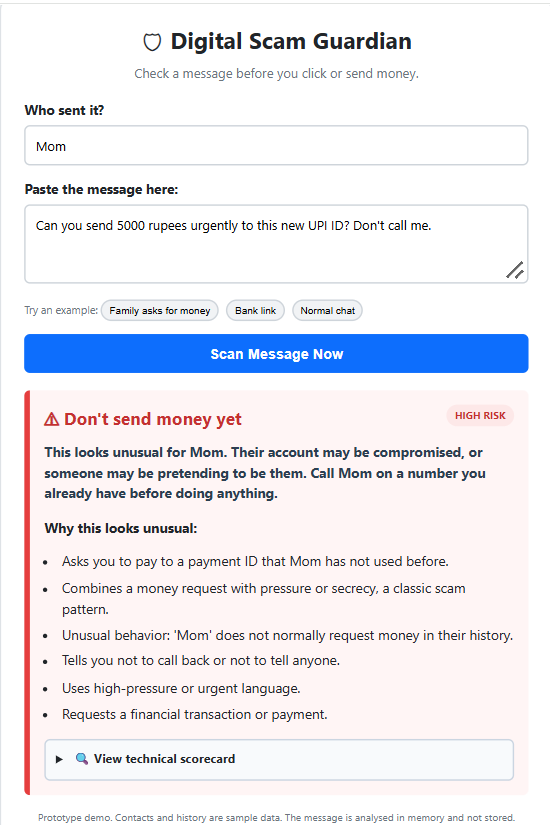
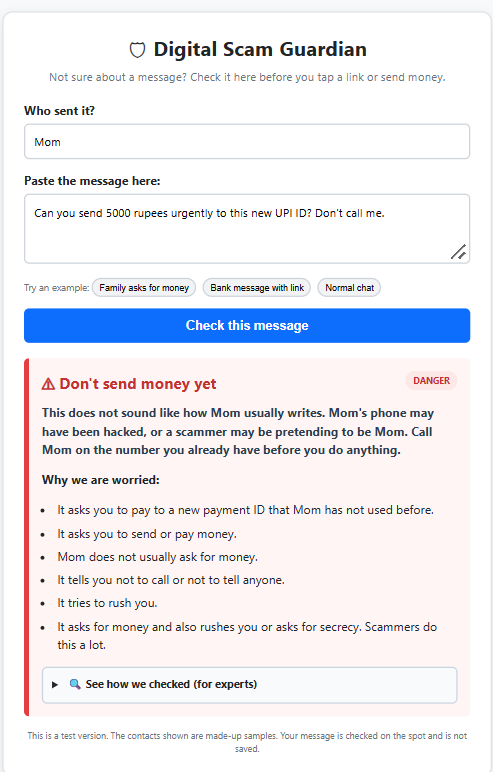
Update some files

Changed region(s): [[0.0304, 0.342, 0.9736, 1.0], [0.0304, 0.0311, 0.9736, 0.342], [0.9128, 0.2487, 0.9736, 0.342]]

diff --git a/frontend/index.html b/frontend/index.html
@@ -35,7 +35,7 @@
 <body>
 <div class="container">
   <h1>🛡 Digital Scam Guardian</h1>
-  <div class="subtitle">Check a message before you click or send money.</div>
+  <div class="subtitle">Not sure about a message? Check it here before you tap a link or send money.</div>
 
   <label for="senderInput">Who sent it?</label>
   <input type="text" id="senderInput" value="Mom" maxlength="100">
@@ -45,13 +45,13 @@
 
   <div class="examples">Try an example:
     <button type="button" data-s="Mom" data-m="Can you send 5000 rupees urgently to this new UPI ID? Don't call me.">Family asks for money</button>
-    <button type="button" data-s="Unknown Support" data-m="Dear customer, your SBI account will be blocked today. Update KYC at http://sbi-update-kyc.com immediately.">Bank link</button>
+    <button type="button" data-s="Unknown Support" data-m="Dear customer, your SBI account will be blocked today. Update KYC at http://sbi-update-kyc.com immediately.">Bank message with link</button>
     <button type="button" data-s="Mom" data-m="Hi beta, are you coming home for dinner tonight?">Normal chat</button>
   </div>
 
-  <button class="main" id="scanBtn">Scan Message Now</button>
+  <button class="main" id="scanBtn">Check this message</button>
   <div id="resultArea" aria-live="polite"></div>
-  <div class="note">Prototype demo. Contacts and history are sample data. The message is analysed in memory and not stored.</div>
+  <div class="note">This is a test version. The contacts shown are made-up samples. Your message is checked on the spot and is not saved.</div>
 </div>
 
 <script>
@@ -93,27 +93,27 @@
       const cls = d.score_color === "red" ? "high" : d.score_color === "orange" ? "mid" : "low";
       const titleColor = cls === "high" ? "#c53030" : cls === "mid" ? "#d35400" : "#27ae60";
       const icon = cls === "low" ? "✅" : "⚠";
-      const reasons = d.reasons.length ? d.reasons.map(r => `<li>${esc(r)}</li>`).join("") : "<li>No specific warning signs found.</li>";
+      const reasons = d.reasons.length ? d.reasons.map(r => `<li>${esc(r)}</li>`).join("") : "<li>We did not find anything worrying.</li>";
       const t = d.technical_breakdown;
 
       out.innerHTML = `
         <div class="result ${cls}">
           <div class="head"><h2 style="color:${titleColor}">${icon} ${esc(d.headline)}</h2>
-            <span class="badge ${esc(d.badge_class)}">${esc(d.risk_level)}</span></div>
+            <span class="badge ${esc(d.badge_class)}">${esc(d.level_label || d.risk_level)}</span></div>
           <p class="action">${esc(d.recommended_action)}</p>
-          <p><strong>${cls === "low" ? "What we checked:" : "Why this looks unusual:"}</strong></p>
+          <p><strong>${cls === "low" ? "What we looked at:" : "Why we are worried:"}</strong></p>
           <ul>${reasons}</ul>
-          <details><summary>🔍 View technical scorecard</summary>
+          <details><summary>🔍 See how we checked (for experts)</summary>
             <div class="tech"><div class="row"><span>Safety score (higher is safer)</span>
               <span style="color:${valueColor(d.reputation_score + ' / 100')}">${esc(d.reputation_score)} / 100</span></div></div>
-            ${techRow("Rule engine", t.rule_score)}
-            ${techRow("Sender history", t.sender_score)}
-            ${techRow("Link check", t.link_score)}
-            ${techRow("Machine learning", t.ml_score)}
+            ${techRow("Words used", t.rule_score)}
+            ${techRow("Is it normal for this person?", t.sender_score)}
+            ${techRow("Links", t.link_score)}
+            ${techRow("Computer helper (weak hint)", t.ml_score)}
           </details>
         </div>`;
     } catch (err) {
-      out.innerHTML = "<p style='color:#c0392b;text-align:center'>Could not reach the checking engine. Is the server running?</p>";
+      out.innerHTML = "<p style='color:#c0392b;text-align:center'>Sorry, we could not check this message. Please try again.</p>";
     } finally {
       btn.disabled = false;
     }

diff --git a/detector/risk_engine.py b/detector/risk_engine.py
@@ -14,7 +14,7 @@ from detector.train_model import get_model
 TRUST = {"rules": 0.9, "sender": 0.9, "link": 0.9}   # ML trust is set from how much data it saw
 HIGH_AT, SUSPICIOUS_AT = 60, 31                      # risk thresholds, matching the 0-39 / 40-69 / 70-100 scale in the UI
 OTP_NOTICE = re.compile(r"\botp\b.{0,80}\bdo(?:n[’']?t| not) share\b|\bdo(?:n[’']?t| not) share\b.{0,40}\botp\b", re.I | re.S)
-PRIORITY = ["payment id", "money", "call", "urgent", "behavior", "password", "arrest", "link", "kyc"]
+PRIORITY = ["fake copy", "new payment id", "send or pay money", "does not usually", "not to call", "rush", "pin, password", "arrest", "link", "kyc"]
 
 
 def _combine(pairs):
@@ -26,23 +26,24 @@ def _combine(pairs):
 
 def _advice(level, sender, known, signals, has_links):
     if level == "LOW":
-        return "No major warning signs found. Stay careful with links and with any request for money."
+        return "We did not find anything worrying. Still, be careful with links and with anyone who asks for money."
     if level == "HIGH" and known:
-        return (f"This looks unusual for {sender}. Their account may be compromised, or someone may be pretending "
-                f"to be them. Call {sender} on a number you already have before doing anything.")
+        return (f"This does not sound like how {sender} usually writes. {sender}'s phone may have been hacked, "
+                f"or a scammer may be pretending to be {sender}. Call {sender} on the number you already have "
+                f"before you do anything.")
     if level == "HIGH" and "financial" in signals and not has_links:
-        return ("Do not send money. Call this person on a number you already know, "
-                "or ask a family member, before doing anything.")
+        return ("Do not send any money. Call this person on a number you already know, "
+                "or ask someone in your family, before you do anything.")
     if level == "HIGH":
-        return ("Do not reply, click links or send money. If it claims to be your bank or the police, "
-                "contact them using the number on your card or their official website.")
+        return ("Do not reply, do not tap any link and do not send money. If it says it is from your bank "
+                "or the police, call them on the number printed on your bank card.")
     who = sender if known else "the sender"
-    return f"Pause before acting. Check with {who} using a number or channel you already trust."
+    return f"Wait before you do anything. Check with {who} by calling a number you already know."
 
 
 def _headline(level, signals, has_links):
     if level == "LOW":
-        return "Message looks safe"
+        return "This message looks safe"
     if "financial" in signals:
         return "Don't send money yet"
     if "credential_request" in signals:
@@ -73,11 +74,11 @@ def evaluate_message_risk(sender, message_text, upi_mentioned=None):
         ml_trust = 0.5 if ml_info["n_total"] >= 500 else 0.2
         ml_safety = round((1 - p) * 100)
         if ml_info["holdout"]:
-            ml_note = f"Supporting signal from a model trained on {ml_info['n_total']} messages ({'; '.join(ml_info['sources'])})."
+            ml_note = f"A small computer helper trained on {ml_info['n_total']} sample messages. It is only a hint."
         else:
-            ml_note = f"Experimental: trained on only {ml_info['n_total']} messages, so treated as a weak signal."
+            ml_note = f"A small computer helper trained on only {ml_info['n_total']} sample messages. We treat it as a weak hint."
     except Exception:
-        ml_risk, ml_trust, ml_safety, ml_note = 0.0, 0.0, None, "Model unavailable."
+        ml_risk, ml_trust, ml_safety, ml_note = 0.0, 0.0, None, "The computer helper is not available."
 
     risk = _combine([(rules["score"], TRUST["rules"]), (who["sender_score"], TRUST["sender"]),
                      (link_risk, TRUST["link"]), (ml_risk, ml_trust)])
@@ -88,7 +89,7 @@ def evaluate_message_risk(sender, message_text, upi_mentioned=None):
     # A genuine OTP notice warns "do not share"; do not treat it as a scam
     if OTP_NOTICE.search(message_text) and "credential_request" not in rules["signals"] and not urls:
         risk = min(risk, 20)
-        reasons = ["This looks like a genuine one-time-password notice. Never share the code with anyone."]
+        reasons = ["This looks like a normal secret-code message from a bank or shop. Never tell this code to anyone."]
 
     if risk >= HIGH_AT:
         level, label, badge, color = "HIGH", "High Risk", "badge-high", "red"
@@ -100,21 +101,21 @@ def evaluate_message_risk(sender, message_text, upi_mentioned=None):
     return {
         "sender": sender, "message": message_text,
         "risk_level": {"HIGH": "HIGH RISK", "SUSPICIOUS": "SUSPICIOUS", "LOW": "LOW RISK"}[level],
-        "badge_class": badge, "score_color": color, "score_label": label,
+        "level_label": {"HIGH": "DANGER", "SUSPICIOUS": "BE CAREFUL", "LOW": "LOOKS SAFE"}[level], "badge_class": badge, "score_color": color, "score_label": label,
         "risk": risk, "reputation_score": 100 - risk,
         "headline": _headline(level, rules["signals"], bool(urls)),
         "recommended_action": _advice(level, sender, who["known_contact"], rules["signals"], bool(urls)),
         "reasons": reasons,
         "technical_breakdown": {
-            "rule_score": {"value": f"{100 - rules['score']} / 100 safety",
-                           "explanation": "Evaluated the text for pressure tactics, financial demands, and isolation cues."},
-            "sender_score": {"value": f"{100 - who['sender_score']} / 100 safety",
-                             "explanation": f"Compared the message with what is normal for {sender}."},
+            "rule_score": {"value": f"{100 - rules['score']} / 100 safe",
+                           "explanation": "Looked at the words for rushing, money requests and secrecy."},
+            "sender_score": {"value": f"{100 - who['sender_score']} / 100 safe",
+                             "explanation": f"Checked if this message is normal for {sender}."},
             "link_score": {
-                "value": f"{max(0, 100 - link_risk)} / 100 safety" if urls else "Not applicable (no link found)",
-                "explanation": "Checked links for look-alike domains, shorteners and odd endings." if urls else "No links in the message to check.",
+                "value": f"{max(0, 100 - link_risk)} / 100 safe" if urls else "No link in the message",
+                "explanation": "Checked the link for fake websites and short links." if urls else "There is no link to check.",
                 "color_style": ("#27ae60" if link_risk < 30 else "#c53030") if urls else "#94a3b8"},
-            "ml_score": {"value": f"{ml_safety} / 100 safety" if ml_safety is not None else "Unavailable",
+            "ml_score": {"value": f"{ml_safety} / 100 safe" if ml_safety is not None else "Not available",
                          "explanation": ml_note},
         },
     }

diff --git a/detector/detector.py b/detector/detector.py
@@ -16,25 +16,25 @@ _RULES = [
     ("urgency",
      r"\b(?:immediately|urgent(?:ly)?|right now|asap|hurry|emergency|last warning|jaldi|turant)\b"
      r"|within \d+ (?:minutes?|hours?)",
-     25, "Uses high-pressure or urgent language."),
+     25, "It tries to rush you."),
     ("threat",
      r"\baccount\b.{0,40}\b(?:blocked|suspended|closed|deactivated)\b"
      r"|\bwill be (?:blocked|closed|suspended)\b",
-     30, "Threatens account restriction or closure."),
-    ("financial", _MONEY_REQUEST, 30, "Requests a financial transaction or payment."),
+     30, "It says your bank account will be blocked or closed."),
+    ("financial", _MONEY_REQUEST, 30, "It asks you to send or pay money."),
     ("credential_request",
      r"\b(?:send|share|tell|give|provide|enter|reply with|forward)\b.{0,30}\b(?:otp|pin|password|cvv|(?:\d[- ]digit |verification |security |secret )code)\b",
-     40, "Asks you to share a password, PIN or OTP."),
-    ("kyc", r"\bkyc\b", 20, "Mentions a KYC update, a common scam pretext."),
+     40, "It asks for your PIN, password or secret code (OTP)."),
+    ("kyc", r"\bkyc\b", 20, "It talks about updating your bank details (KYC). Scammers use this a lot."),
     ("secrecy",
      r"\bdo(?:n[’']?t| not) (?:call|tell)\b|\bkeep (?:this )?(?:a )?secret\b|\bbaad mein call\b|\bmat batana\b",
-     25, "Tells you not to call back or not to tell anyone."),
+     25, "It tells you not to call or not to tell anyone."),
     ("authority",
      r"\b(?:police|cbi|trai|customs|arrest|warrant|money laundering|digital arrest)\b",
-     25, "Claims to be police or an official body, or threatens arrest."),
+     25, "It says it is from the police or the government, or talks about arrest."),
     ("prize",
      r"\byou have won\b|\bwinner\b|\blottery\b|\blucky draw\b|\bprize\b|\bcongratulations\b",
-     30, "Claims you have won a prize."),
+     30, "It says you have won a prize."),
 ]
 _COMPILED = [(n, re.compile(p, re.IGNORECASE), pts, why) for n, p, pts, why in _RULES]
 
@@ -59,7 +59,7 @@ def analyze_message(message_text, sender="Unknown"):
     # Signals are stronger together: money + pressure/secrecy is the classic scam shape.
     if "financial" in signals and {"urgency", "secrecy"} & set(signals):
         score += 15
-        reasons.append("Combines a money request with pressure or secrecy, a classic scam pattern.")
+        reasons.append("It asks for money and also rushes you or asks for secrecy. Scammers do this a lot.")
 
     score = min(score, 100)
     if score >= 60:

diff --git a/detector/link_analyzer.py b/detector/link_analyzer.py
@@ -38,17 +38,17 @@ def analyze_link(url):
     # 1. Shorteners: exact domain match (the old substring check flagged flipkart.com as "t.co")
     if any(_is_or_subdomain_of(domain, s) for s in SHORTENERS):
         score += 35
-        reasons.append(f"Uses a URL shortener ({domain}), which hides the true destination.")
+        reasons.append("This is a short link. It hides where it really goes.")
 
     # 2. Unusual endings
     if domain.endswith(SUSPICIOUS_TLDS):
         score += 30
-        reasons.append(f"Uses an unusual domain ending ({domain}) often seen in scams.")
+        reasons.append("The website name ends in an unusual way that scammers often use.")
 
     # 3. Raw IP address or many subdomains
     if re.fullmatch(r"\d{1,3}(?:\.\d{1,3}){3}", domain) or domain.count(".") > 3:
         score += 40
-        reasons.append("Uses a raw IP address or an unusually long chain of subdomains.")
+        reasons.append("The link looks strange. It is not a normal website name.")
 
     # 4. Look-alike brand domains (old endswith check let fake-sbi.com pass as "sbi.com")
     for brand, genuine in OFFICIAL.items():
@@ -56,13 +56,13 @@ def analyze_link(url):
         is_genuine = any(_is_or_subdomain_of(domain, g) for g in genuine)
         if mentions_brand and not is_genuine:
             score += 45
-            reasons.append(f"Looks like it imitates {brand.upper()} but is not its official website.")
+            reasons.append(f"The link looks like {brand.upper()}'s website, but it is a fake copy.")
             break
 
     # 5. Scam-style words inside the domain itself
     if SCAM_WORDS & set(tokens):
         score += 25
-        reasons.append("The web address contains words like 'verify', 'update' or 'KYC'.")
+        reasons.append("The link has words like 'verify' or 'update' that scammers like to use.")
 
     return {"url": url, "domain": domain, "link_score": score, "link_reasons": reasons}
 

diff --git a/detector/contact_analyzer.py b/detector/contact_analyzer.py
@@ -65,17 +65,17 @@ def analyze_sender_behavior(sender_name, message_text, upi_mentioned=None):
         normal_upi, asks_normally = row
         if asks_money and not asks_normally:
             score += 15 if usual else 40   # a money request using a "usual" ID is far less alarming
-            reasons.append(f"Unusual behavior: '{name}' does not normally request money in their history.")
+            reasons.append(f"{name} does not usually ask for money.")
         ids = _ids_in(message_text, upi_mentioned)
         new_id = bool(NEW_ID_RE.search(message_text)) or any(i != normal_upi.lower() for i in ids)
         if asks_money and new_id and not usual:
             score += 35
-            reasons.append(f"Asks you to pay to a payment ID that {name} has not used before.")
+            reasons.append(f"It asks you to pay to a new payment ID that {name} has not used before.")
     else:
         score += 15
-        reasons.append(f"Sender '{name}' is not in your saved contacts list.")
+        reasons.append(f"You do not have '{name}' saved as a contact.")
         if asks_money:
             score += 20
-            reasons.append("An unknown sender is asking for money.")
+            reasons.append("Someone you do not know is asking for money.")
 
     return {"sender": name, "sender_score": min(score, 100), "sender_reasons": reasons, "known_contact": bool(row)}

diff --git a/README.md b/README.md
@@ -3,13 +3,9 @@
 A scam-safety layer for messages, **designed first for elderly people and useful to anyone**.
 It checks a message on the user's own device, then explains in plain language why the message looks risky and what to do.
 
-> **Status: Prototype 1.** A working web demo of the detection approach. It does **not** read WhatsApp or SMS yet, and it does not handle phone calls.
+Built for the **Tata Young Social Innovator Challenge** (Technology for Social Good: *how can an elderly person tell whether a call, link or message is genuine or a scam?*).
 
-<!-- Add screenshots here once taken, for example:
-![Known contact asks for money](docs/screenshots/known-contact.png)
-![Fake KYC link](docs/screenshots/fake-link.png)
-![Normal message](docs/screenshots/normal.png)
--->
+> **Status: Prototype 1 (complete).** A working web demo of the detection engine. It does **not** read WhatsApp or SMS yet, and it does not handle phone calls. See [Architecture](#architecture) for how it is designed to fit existing messaging apps.
 
 ## The problem
 Scammers do not hack elderly people's phones; they persuade them, using urgency, fear, authority and trust.
@@ -26,8 +22,66 @@ Four layers each produce a risk, and a strong signal in any layer raises the fin
 | ML model | Small text classifier used as a supporting signal; counted only when more than 50% confident |
 
 - **Combination:** noisy-OR, `risk = 1 - product(1 - layer_risk x trust)`, not a plain average. A clearly fake link cannot be diluted away by clean-looking text.
-- **Levels:** LOW, SUSPICIOUS, HIGH, each with plain-language reasons and a recommended action.
-- **Wording:** results say "this looks unusual", never "this is a scam". A known contact does not automatically mean safe.
+- **Levels:** LOOKS SAFE, BE CAREFUL, DANGER (internally LOW, SUSPICIOUS, HIGH), each with short reasons and clear advice.
+- **Plain language:** short sentences and everyday words, written after feedback that a first version was too technical. Messages say things like "may have been hacked" or "a scammer may be pretending", never claim certainty, and a known contact is not automatically treated as safe.
+
+## Architecture
+
+![Digital Scam Guardian architecture](docs/architecture.png)
+
+*Solid = built in Prototype 1. Dashed = planned, design only. Vector version: [docs/architecture.svg](docs/architecture.svg).*
+
+| Component | Role | File |
+|---|---|---|
+| Web demo form | Prototype 1 entry point: sender + pasted message, plus example buttons | `frontend/index.html` |
+| Standard input / API | One input format for any source (`POST /api/analyze`) | `backend/main.py` |
+| Rules | Wording signals: urgency, money requests, secrecy, OTP/PIN, threats, authority, prizes | `detector/detector.py` |
+| Sender check | Compares the message with the contact's baseline (sample data) | `detector/contact_analyzer.py` |
+| Link check | Local heuristics on links, no network calls | `detector/link_analyzer.py` |
+| ML model | Small supporting text classifier, trained once per run | `detector/train_model.py` |
+| Risk engine | Combines the layers (noisy-OR), writes reasons and advice | `detector/risk_engine.py` |
+
+**How a message flows:** it enters as `sender + text`, the four layers each return a risk and plain-language reasons, the risk engine combines them into LOW, SUSPICIOUS or HIGH, and the page shows a headline, advice and reasons. Nothing is blocked automatically, and the text is not stored.
+
+**Design choices:**
+- *Platform-independent core:* the engine only sees `sender + text`, so it does not depend on any one messaging app.
+- *Local analysis:* the engine needs no external service, so message text stays inside the app.
+- *Signals combined, not averaged:* a clearly fake link or an unusual money request cannot be diluted by clean-looking wording.
+- *Explain, don't just score:* every result lists its reasons; wording is "this looks unusual", never "this is a scam".
+
+### How it is designed to fit existing messaging apps (design only, not built)
+Encrypted apps such as WhatsApp cannot be read by a server, so a real layer must work **on the user's own device after a message is delivered**. Three routes are planned, each subject to platform permissions and policies (iOS is more restrictive than Android):
+
+| Route | Idea | Notes |
+|---|---|---|
+| Share to Guardian | The user shares a suspicious message from any app into Guardian | User-initiated; needs no special permission |
+| Notification access (Android) | With the user's explicit permission, Guardian reads incoming notification text and shows a warning | Permission and store-policy limits apply |
+| SMS filtering | Integrate with the platform's SMS filtering options | Rules differ by platform; may only cover some senders |
+
+Prototype 1 implements none of these routes; it demonstrates the detection engine that they would all feed.
+
+## Screenshots
+
+**A known contact asks for money, to a new payment ID** (high risk, with plain-language reasons):
+
+<img src="docs/screenshots/01-known-contact-money-request.png" alt="Known contact asks for money" width="380">
+
+**Technical scorecard** (each layer shown separately; the ML signal is deliberately weak and the rules and sender history drive the verdict):
+
+<img src="docs/screenshots/02-scorecard.png" alt="Technical scorecard" width="380">
+
+**Fake bank link:**
+
+<img src="docs/screenshots/03-fake-bank-link.png" alt="Fake bank link" width="380">
+
+**Normal message and a genuine OTP notice** (no false alarm):
+
+<img src="docs/screenshots/04-normal-message.png" alt="Normal message" width="300"> <img src="docs/screenshots/05-genuine-otp-notice.png" alt="Genuine OTP notice" width="300">
+
+**Hinglish scam** and a **known limitation** (a genuine fee message gets a moderate warning):
+
+<img src="docs/screenshots/06-hinglish-scam.png" alt="Hinglish scam" width="300"> <img src="docs/screenshots/07-limitation-genuine-bill.png" alt="Limitation: genuine bill message" width="300">
+
 
 ## Run it
 Run these from the project root.
@@ -57,6 +111,8 @@ python detector/train_model.py                  # ML training info
 | Hold-out (run once, not tuned on) | 32 | 14 | 4 | 14 | 0 | 87.5% | 77.8% | 100% |
 
 On the hold-out set, all 14 scam or suspicious messages were flagged, and 4 of 18 genuine messages received a moderate (SUSPICIOUS) warning. None of the genuine messages was marked HIGH RISK.
+
+Evidence (terminal output): [scenarios](docs/screenshots/08-scenarios.png), [development set](docs/screenshots/09-dev-results.png), [hold-out set](docs/screenshots/10-holdout-results.png), [ML training info](docs/screenshots/11-ml-info.png).
 
 **Please read these numbers carefully.**
 - The sets are small, so results are indicative only. With 32 messages the true accuracy could plausibly lie between roughly 72% and 95%.
@@ -96,7 +152,7 @@ detector/   rules, link checks, sender baseline, ML model, risk engine
 frontend/   web demo page
 data/       labelled messages (dev and hold-out)
 tests/      scenarios and evaluation scripts
-docs/       project documents
+docs/       architecture diagram (PNG + SVG) and screenshots
 ```
 
 ## License
